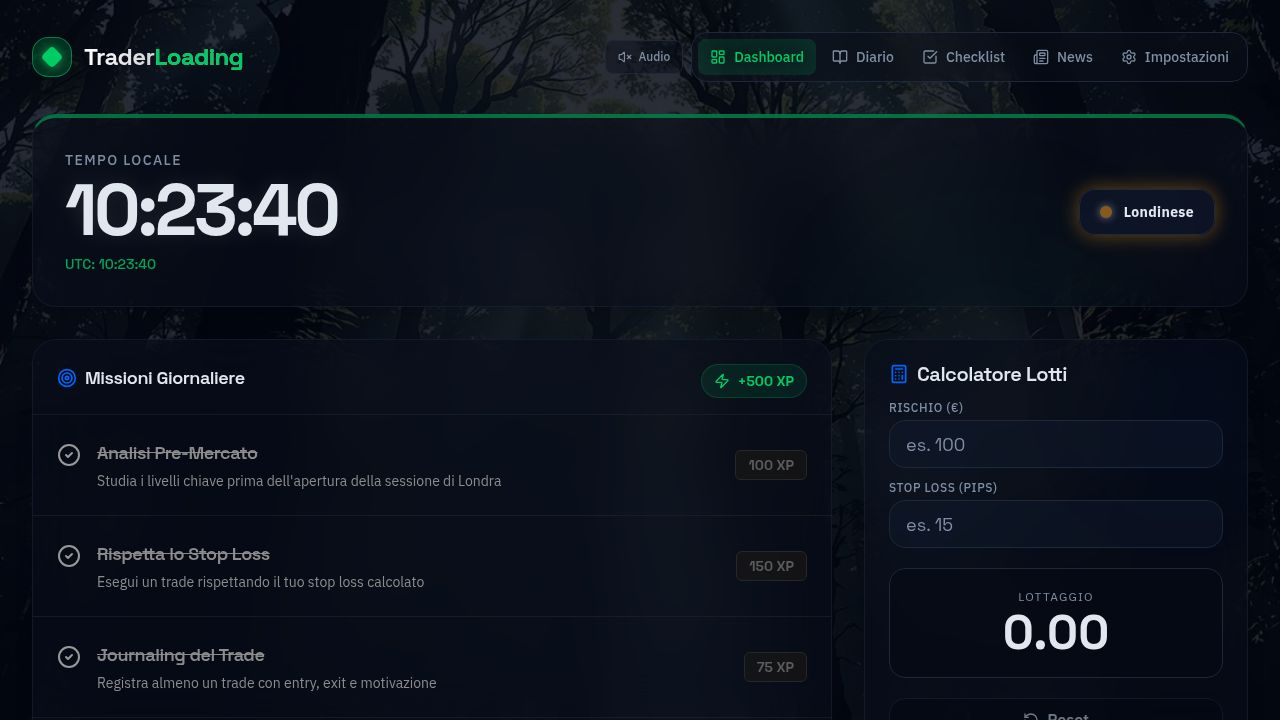
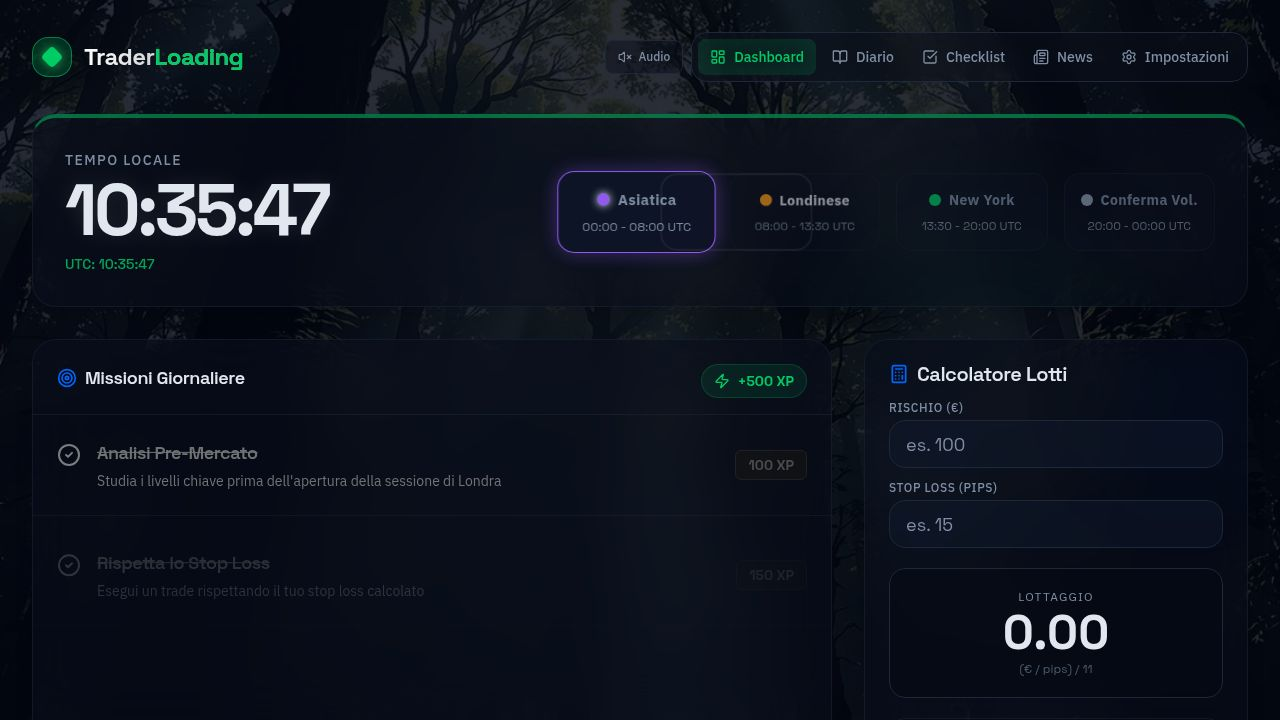
Task #12: Classifica Trader per Livello (Trader Leaderboard)
Added a trader leaderboard widget to the Dashboard showing all registered
users ranked by XP.

Changes:
1. lib/api-zod/src/generated/api.ts:
   - Added GetLeaderboardResponseItem and GetLeaderboardResponse Zod schemas
   - Each entry has: position, name, avatarUrl, level, xp

2. artifacts/api-server/src/routes/profile.ts:
   - Added GET /leaderboard endpoint
   - Queries all profiles with userId IS NOT NULL (excludes guests)
   - Orders by XP descending, computes level via computeLevel()
   - Validates response with Zod schema
   - Added isNotNull and desc imports from drizzle-orm

3. artifacts/trader-dashboard/src/components/LeaderboardWidget.tsx:
   - New component showing ranked trader list
   - Fetches from /api/leaderboard using react-query
   - Shows position badges (crown/medal/award for top 3, # for others)
   - Displays avatar, name, level, and XP for each entry
   - Highlights current user with green accent and "(tu)" label
   - Follows existing glassmorphism/neon design style
   - Scrollable list with max-height of 400px

4. artifacts/trader-dashboard/src/pages/Dashboard.tsx:
   - Integrated LeaderboardWidget as a full-width section below the
     existing missions/calculator grid
   - Added motion animation (delay 0.4) consistent with other widgets

Rebase: resolved binary conflict on opengraph.jpg by accepting main version
(file was not modified by this task).
No deviations from the task requirements.

Replit-Task-Id: 7d06dd44-f3c7-4bf9-a070-5ad39cb3904d

diff --git a/artifacts/trader-dashboard/src/components/LeaderboardWidget.tsx b/artifacts/trader-dashboard/src/components/LeaderboardWidget.tsx
@@ -1,0 +1,134 @@
+import { useQuery } from "@tanstack/react-query";
+import { Trophy, Crown, Medal, Award, User } from "lucide-react";
+import { motion } from "framer-motion";
+import { Card, CardHeader, CardTitle, CardContent } from "@/components/ui/card";
+import { useGetProfile } from "@workspace/api-client-react";
+
+interface LeaderboardEntry {
+  position: number;
+  name: string;
+  avatarUrl: string | null;
+  level: number;
+  xp: number;
+}
+
+function useLeaderboard() {
+  return useQuery<LeaderboardEntry[]>({
+    queryKey: ["/api/leaderboard"],
+    queryFn: async () => {
+      const res = await fetch("api/leaderboard", { credentials: "include" });
+      if (!res.ok) throw new Error("Failed to fetch leaderboard");
+      return res.json();
+    },
+  });
+}
+
+function PositionBadge({ position }: { position: number }) {
+  if (position === 1) {
+    return (
+      <div className="w-8 h-8 rounded-full bg-yellow-500/20 border border-yellow-500/50 flex items-center justify-center shadow-[0_0_12px_rgba(234,179,8,0.3)]">
+        <Crown className="w-4 h-4 text-yellow-400" />
+      </div>
+    );
+  }
+  if (position === 2) {
+    return (
+      <div className="w-8 h-8 rounded-full bg-slate-300/20 border border-slate-400/50 flex items-center justify-center">
+        <Medal className="w-4 h-4 text-slate-300" />
+      </div>
+    );
+  }
+  if (position === 3) {
+    return (
+      <div className="w-8 h-8 rounded-full bg-amber-700/20 border border-amber-600/50 flex items-center justify-center">
+        <Award className="w-4 h-4 text-amber-600" />
+      </div>
+    );
+  }
+  return (
+    <div className="w-8 h-8 rounded-full bg-secondary/50 border border-border flex items-center justify-center">
+      <span className="text-xs font-bold font-mono text-muted-foreground">#{position}</span>
+    </div>
+  );
+}
+
+export function LeaderboardWidget() {
+  const { data: leaderboard, isLoading } = useLeaderboard();
+  const { data: profile } = useGetProfile();
+
+  return (
+    <Card className="h-full relative overflow-hidden">
+      <CardHeader className="flex flex-row items-center justify-between pb-3 sm:pb-4 px-3 sm:px-6 pt-3 sm:pt-6 border-b border-border/50 bg-secondary/10">
+        <CardTitle className="flex items-center gap-2 text-base sm:text-lg">
+          <Trophy className="w-4 h-4 sm:w-5 sm:h-5 text-yellow-400" />
+          Classifica Trader
+        </CardTitle>
+      </CardHeader>
+
+      <CardContent className="p-0">
+        {isLoading ? (
+          <div className="p-8 flex justify-center">
+            <div className="w-8 h-8 rounded-full border-4 border-primary border-t-transparent animate-spin" />
+          </div>
+        ) : !leaderboard || leaderboard.length === 0 ? (
+          <div className="p-8 text-center text-muted-foreground font-medium">
+            Nessun trader in classifica.
+          </div>
+        ) : (
+          <div className="divide-y divide-border/50 max-h-[400px] overflow-y-auto">
+            {leaderboard.map((entry, idx) => {
+              const isCurrentUser = profile && entry.name === profile.name && entry.xp === profile.xp;
+              return (
+                <motion.div
+                  key={`${entry.position}-${entry.name}`}
+                  initial={{ opacity: 0, x: -10 }}
+                  animate={{ opacity: 1, x: 0 }}
+                  transition={{ delay: idx * 0.05 }}
+                  className={`px-3 sm:px-4 py-2.5 sm:py-3 flex items-center gap-3 transition-colors hover:bg-secondary/20 ${
+                    isCurrentUser
+                      ? "bg-primary/10 border-l-2 border-l-primary"
+                      : ""
+                  }`}
+                >
+                  <PositionBadge position={entry.position} />
+
+                  <div className="w-9 h-9 rounded-full border border-border/50 overflow-hidden bg-secondary flex-shrink-0">
+                    {entry.avatarUrl ? (
+                      <img
+                        src={entry.avatarUrl}
+                        alt={entry.name}
+                        className="w-full h-full object-cover"
+                      />
+                    ) : (
+                      <div className="w-full h-full flex items-center justify-center">
+                        <User className="w-4 h-4 text-muted-foreground" />
+                      </div>
+                    )}
+                  </div>
+
+                  <div className="flex-1 min-w-0">
+                    <p className={`text-sm font-semibold truncate ${isCurrentUser ? "text-primary" : "text-foreground"}`}>
+                      {entry.name}
+                      {isCurrentUser && (
+                        <span className="ml-1.5 text-[10px] font-medium text-primary/70">(tu)</span>
+                      )}
+                    </p>
+                    <p className="text-xs text-muted-foreground">
+                      Livello {entry.level}
+                    </p>
+                  </div>
+
+                  <div className="flex items-center gap-1 bg-secondary/80 border border-border px-2 py-0.5 rounded-md">
+                    <span className="text-xs font-bold font-mono text-accent">
+                      {entry.xp.toLocaleString()} XP
+                    </span>
+                  </div>
+                </motion.div>
+              );
+            })}
+          </div>
+        )}
+      </CardContent>
+    </Card>
+  );
+}

diff --git a/artifacts/api-server/src/routes/profile.ts b/artifacts/api-server/src/routes/profile.ts
@@ -5,8 +5,8 @@ import fs from "fs";
 import crypto from "crypto";
 import { db } from "@workspace/db";
 import { profileTable } from "@workspace/db";
-import { UpdateProfileBody, UpdateProfileResponse, GetProfileResponse } from "@workspace/api-zod";
-import { eq, isNull, and, ne, sql } from "drizzle-orm";
+import { UpdateProfileBody, UpdateProfileResponse, GetProfileResponse, GetLeaderboardResponse } from "@workspace/api-zod";
+import { eq, isNull, and, ne, sql, isNotNull, desc } from "drizzle-orm";
 
 const router: IRouter = Router();
 
@@ -238,6 +238,27 @@ router.post("/profile/avatar/generate", async (req, res) => {
     console.warn("AI avatar generation failed:", err);
     res.status(500).json({ error: "Generazione avatar fallita. Riprova." });
   }
+});
+
+router.get("/leaderboard", async (_req, res) => {
+  const profiles = await db.select()
+    .from(profileTable)
+    .where(isNotNull(profileTable.userId))
+    .orderBy(desc(profileTable.xp));
+
+  const leaderboard = profiles.map((p, idx) => {
+    const { level } = computeLevel(p.xp);
+    return {
+      position: idx + 1,
+      name: p.name,
+      avatarUrl: p.avatarUrl ?? null,
+      level,
+      xp: p.xp,
+    };
+  });
+
+  const data = GetLeaderboardResponse.parse(leaderboard);
+  res.json(data);
 });
 
 export { getOrCreateProfile, computeLevel, getUserId };

diff --git a/artifacts/trader-dashboard/src/pages/Dashboard.tsx b/artifacts/trader-dashboard/src/pages/Dashboard.tsx
@@ -3,6 +3,7 @@ import { PageLayout } from "@/components/PageLayout";
 import { ClockWidget } from "@/components/ClockWidget";
 import { MissionsWidget } from "@/components/MissionsWidget";
 import { LotCalculatorWidget } from "@/components/LotCalculatorWidget";
+import { LeaderboardWidget } from "@/components/LeaderboardWidget";
 
 export default function Dashboard() {
   return (
@@ -33,6 +34,14 @@ export default function Dashboard() {
           <LotCalculatorWidget />
         </motion.section>
       </div>
+
+      <motion.section
+        initial={{ opacity: 0, y: 20 }}
+        animate={{ opacity: 1, y: 0 }}
+        transition={{ delay: 0.4 }}
+      >
+        <LeaderboardWidget />
+      </motion.section>
     </PageLayout>
   );
 }